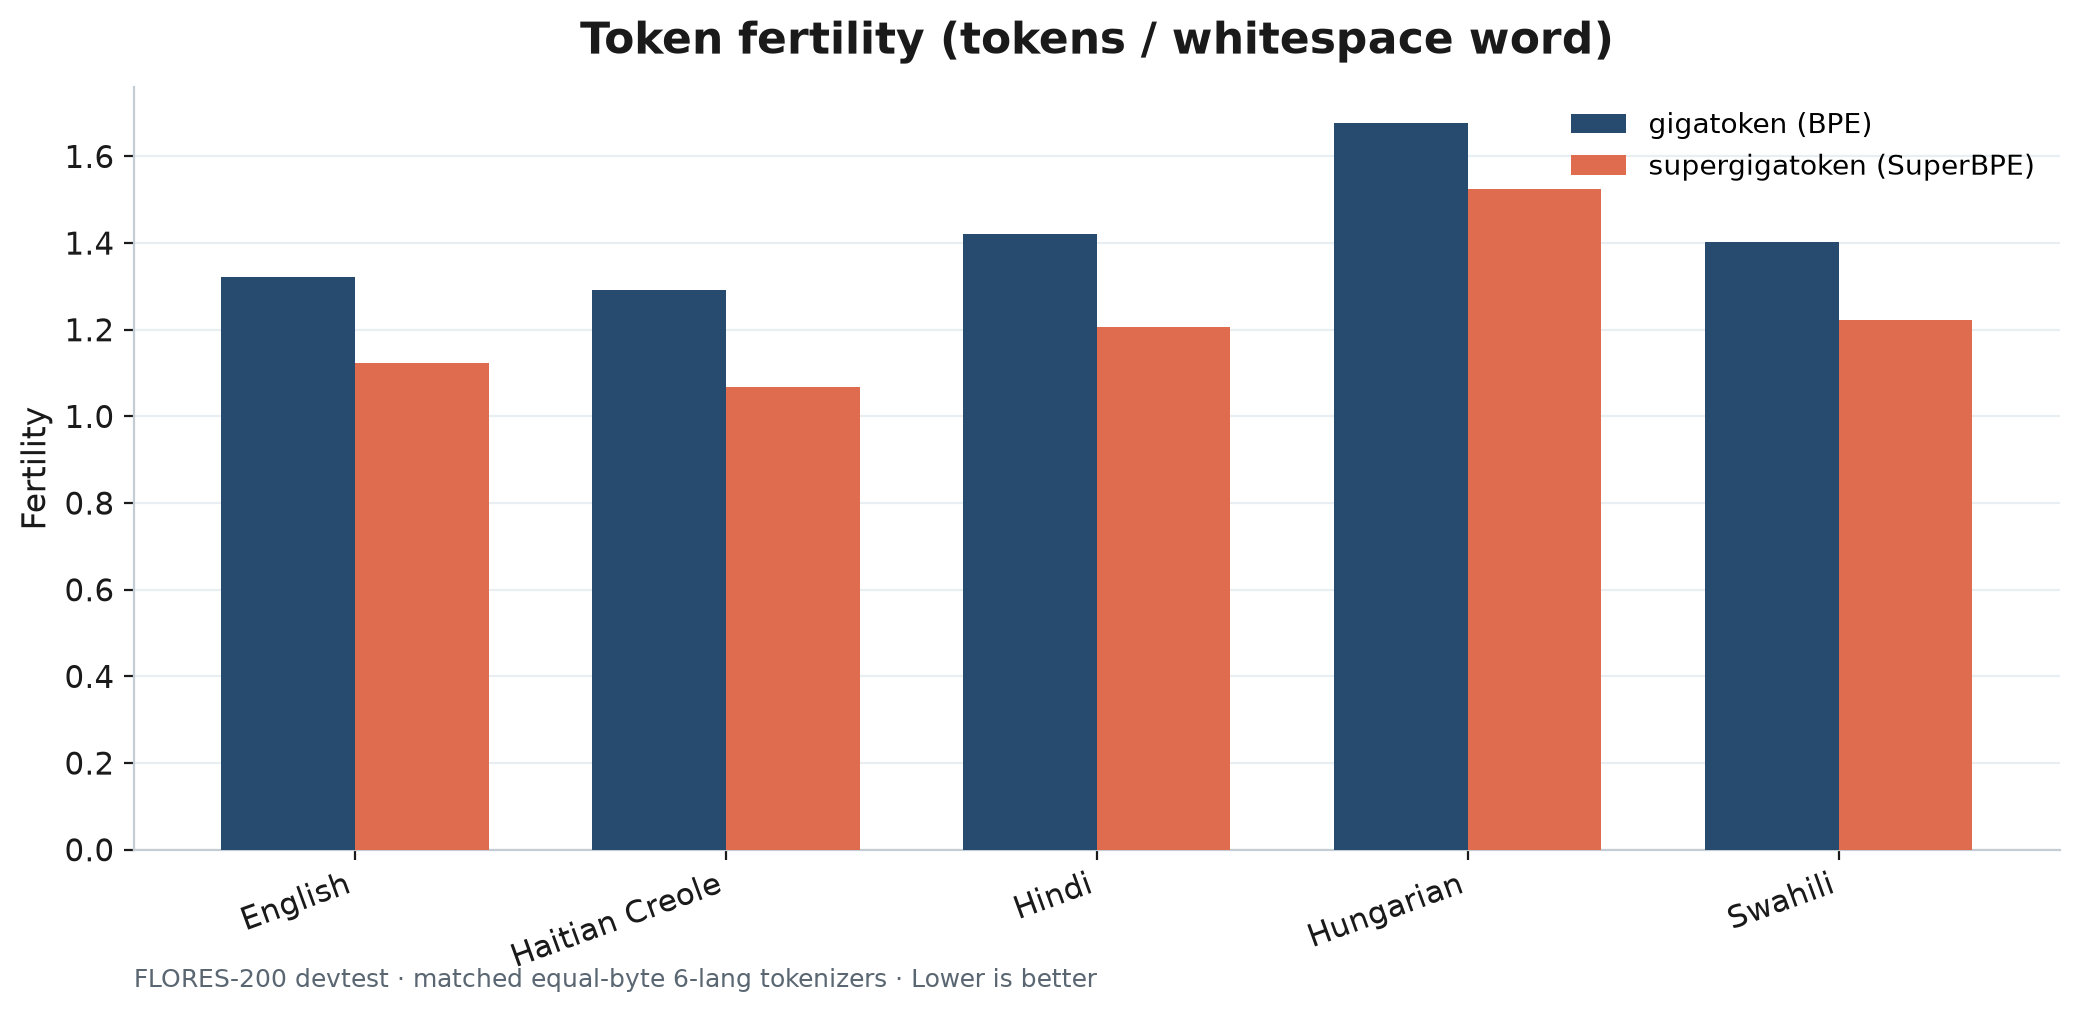
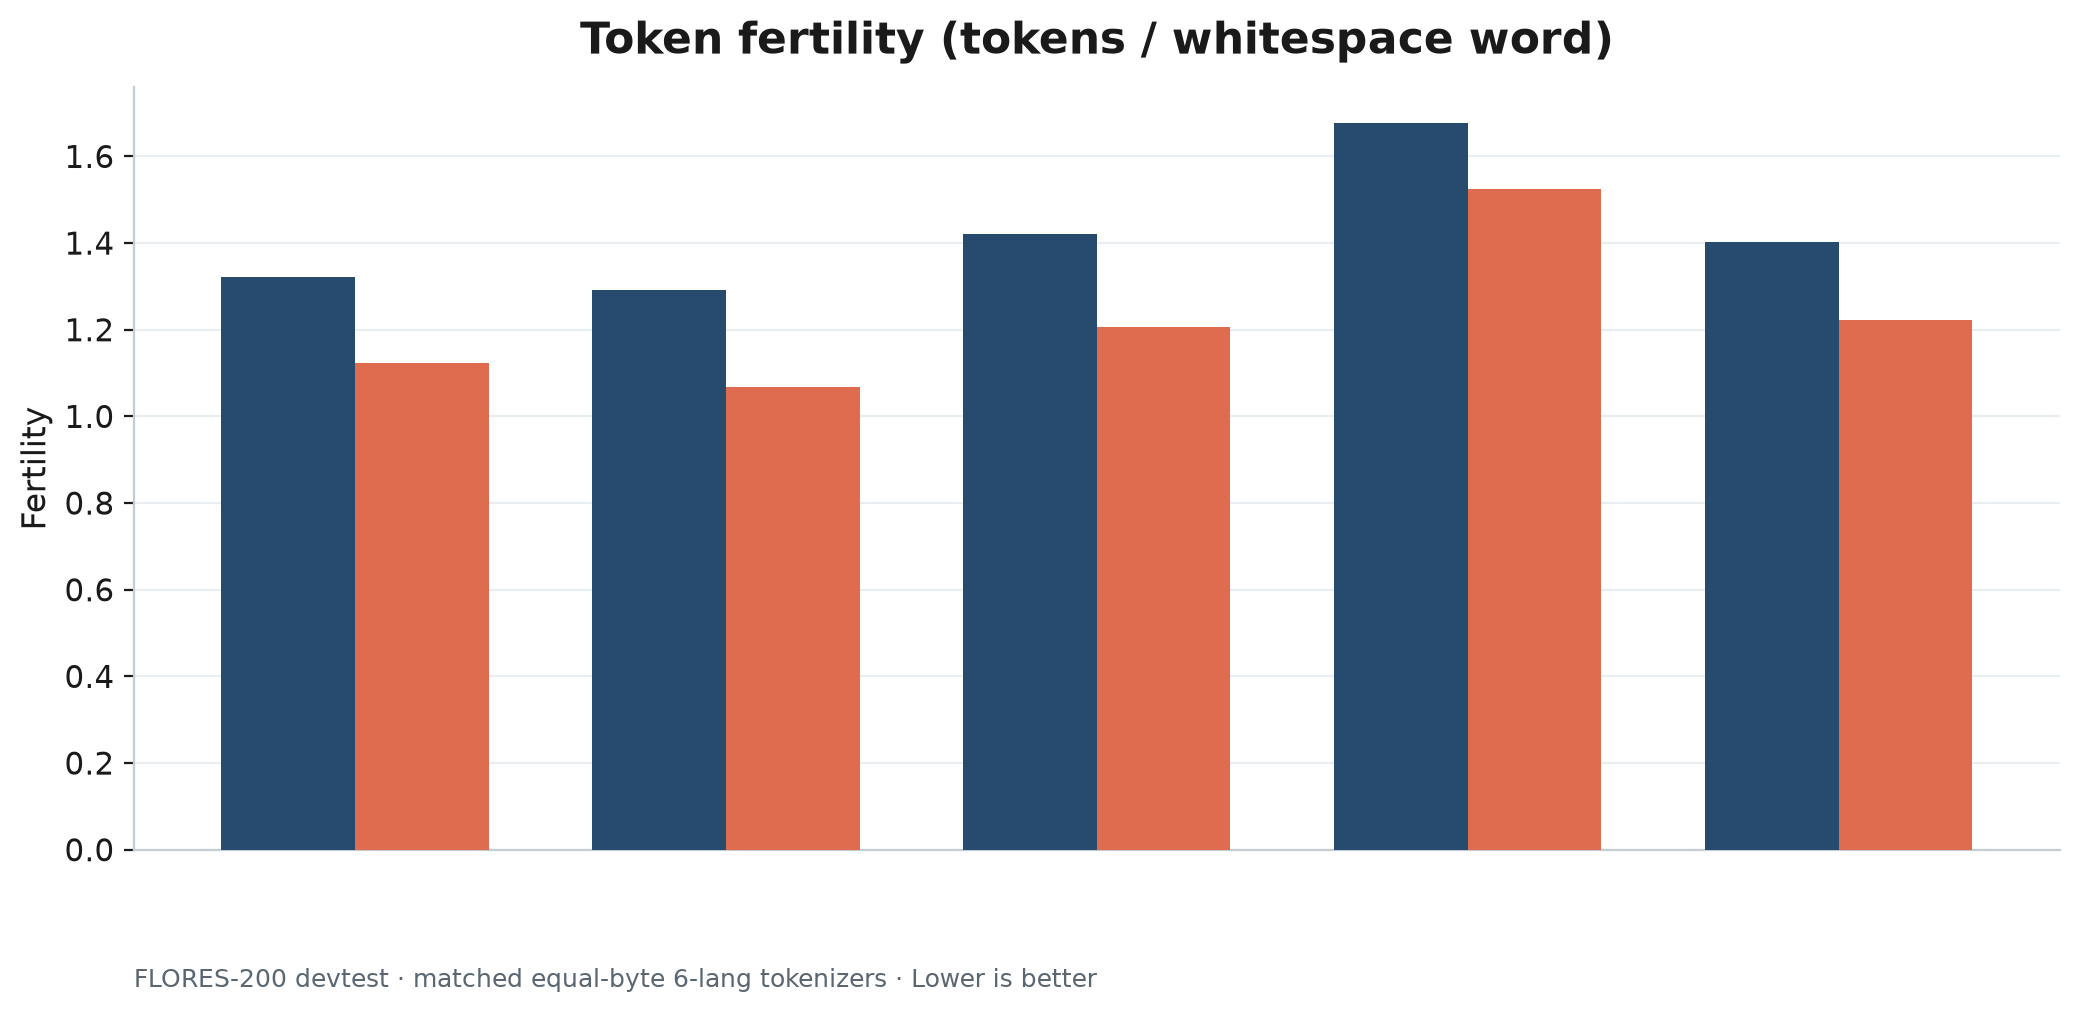
Hide language and tokenizer labels on fertility and STRR slide charts.

diff --git a/talks/slide_assets/make_named_tokenizer_graphs.py b/talks/slide_assets/make_named_tokenizer_graphs.py
@@ -56,7 +56,7 @@ LANG_LABEL = {
 TOK_ORDER = ["superbpe", "llama", "qwen", "glm", "o200k", "multi", "unigram", "wordpiece"]
 
 
-def heatmap(df, metric, title, out_path, cmap="lower", omit_cjk_null=False, vmax_label=""):
+def heatmap(df, metric, title, out_path, cmap="lower", omit_cjk_null=False, vmax_label="", *, hide_lang_tok_labels: bool = False):
     toks = [t for t in TOK_ORDER if t in set(df.tokenizer_id)]
     langs = [l for l in LANG_ORDER if l in set(df.language)]
     mat = np.full((len(langs), len(toks)), np.nan)
@@ -80,9 +80,18 @@ def heatmap(df, metric, title, out_path, cmap="lower", omit_cjk_null=False, vmax
 
     im = ax.imshow(mat, aspect="auto", cmap=cmap_name)
     ax.set_xticks(range(len(toks)))
-    ax.set_xticklabels([TOK_LABEL.get(t, t) for t in toks], fontsize=10)
     ax.set_yticks(range(len(langs)))
-    ax.set_yticklabels([LANG_LABEL.get(l, l) for l in langs], fontsize=11)
+    if hide_lang_tok_labels:
+        ax.set_xticklabels([])
+        ax.set_yticklabels([])
+        ax.tick_params(length=0)
+        ax.set_xlabel("")
+        ax.set_ylabel("")
+    else:
+        ax.set_xticklabels([TOK_LABEL.get(t, t) for t in toks], fontsize=10)
+        ax.set_yticklabels([LANG_LABEL.get(l, l) for l in langs], fontsize=11)
+        ax.set_xlabel("Tokenizer", fontsize=12, labelpad=8)
+        ax.set_ylabel("Language (FLORES-200)", fontsize=12)
     ax.set_title(title, fontsize=15, fontweight="bold", pad=14)
 
     # annotate cells
@@ -102,8 +111,6 @@ def heatmap(df, metric, title, out_path, cmap="lower", omit_cjk_null=False, vmax
 
     cbar = fig.colorbar(im, ax=ax, fraction=0.03, pad=0.02)
     cbar.set_label(vmax_label or metric, fontsize=10)
-    ax.set_xlabel("Tokenizer", fontsize=12, labelpad=8)
-    ax.set_ylabel("Language (FLORES-200)", fontsize=12)
     fig.text(
         0.5, 0.01,
         "Study A · FLORES-200 devtest · cell = metric value · redder = worse (except STRR: greener = better)",
@@ -115,7 +122,7 @@ def heatmap(df, metric, title, out_path, cmap="lower", omit_cjk_null=False, vmax
     print(f"Wrote {out_path}")
 
 
-def grouped_worst(df, metric, title, out_path, higher_better=False, langs=None):
+def grouped_worst(df, metric, title, out_path, higher_better=False, langs=None, *, hide_lang_tok_labels: bool = False):
     """Bar chart: for selected hard languages, every tokenizer named."""
     langs = langs or ["amh_Ethi", "ory_Orya", "arz_Arab", "hun_Latn", "swh_Latn"]
     toks = [t for t in TOK_ORDER if t in set(df.tokenizer_id)]
@@ -135,8 +142,13 @@ def grouped_worst(df, metric, title, out_path, higher_better=False, langs=None):
             vals.append(float(v) if v is not None and not (isinstance(v, float) and np.isnan(v)) else np.nan)
         bars = ax.barh(range(len(toks)), vals, color=colors, zorder=3)
         ax.set_yticks(range(len(toks)))
-        ax.set_yticklabels(labels, fontsize=8)
-        ax.set_title(LANG_LABEL[lang], fontsize=11, fontweight="bold")
+        if hide_lang_tok_labels:
+            ax.set_yticklabels([])
+            ax.tick_params(axis="y", length=0)
+            ax.set_title("")
+        else:
+            ax.set_yticklabels(labels, fontsize=8)
+            ax.set_title(LANG_LABEL[lang], fontsize=11, fontweight="bold")
         ax.xaxis.grid(True, color="#E8EEF2", zorder=0)
         ax.set_axisbelow(True)
         # highlight worst
@@ -170,6 +182,7 @@ def main():
         OUT / "fertility_by_tokenizer_heatmap.png",
         cmap="lower",
         vmax_label="Fertility",
+        hide_lang_tok_labels=True,
     )
     # STRR: drop Mandarin (null)
     df_strr = df[df.language != "zho_Hans"].copy()
@@ -179,6 +192,7 @@ def main():
         OUT / "strr_by_tokenizer_heatmap.png",
         cmap="higher",
         vmax_label="STRR",
+        hide_lang_tok_labels=True,
     )
 
     grouped_worst(
@@ -192,12 +206,14 @@ def main():
         "Who fragments? Fertility — named tokenizers",
         OUT / "fertility_by_tokenizer_bars.png",
         higher_better=False,
+        hide_lang_tok_labels=True,
     )
     grouped_worst(
         df_strr, "strr",
         "Who keeps whole words? STRR — named tokenizers (higher better)",
         OUT / "strr_by_tokenizer_bars.png",
         higher_better=True,
+        hide_lang_tok_labels=True,
     )
 
     # also copy paper heatmap with frontier names if present

diff --git a/talks/slide_assets/make_assets.py b/talks/slide_assets/make_assets.py
@@ -58,7 +58,17 @@ def _load_metrics():
     return pd.DataFrame(rows)
 
 
-def grouped_bars(df, metric, title, ylabel, out_path, omit_cjk=False, higher_better=False):
+def grouped_bars(
+    df,
+    metric,
+    title,
+    ylabel,
+    out_path,
+    omit_cjk=False,
+    higher_better=False,
+    *,
+    hide_lang_tok_labels: bool = False,
+):
     data = df.copy()
     if omit_cjk:
         data = data[data["language"] != "zho_Hans"]
@@ -70,13 +80,20 @@ def grouped_bars(df, metric, title, ylabel, out_path, omit_cjk=False, higher_bet
     x = np.arange(len(langs))
     w = 0.36
     fig, ax = plt.subplots(figsize=(10.5, 5.2), dpi=200)
-    ax.bar(x - w / 2, bpe, w, label="gigatoken (BPE)", color=BPE_C, zorder=3)
-    ax.bar(x + w / 2, sbp, w, label="supergigatoken (SuperBPE)", color=SBP_C, zorder=3)
-    ax.set_xticks(x)
-    ax.set_xticklabels(labels, rotation=20, ha="right")
+    if hide_lang_tok_labels:
+        ax.bar(x - w / 2, bpe, w, color=BPE_C, zorder=3)
+        ax.bar(x + w / 2, sbp, w, color=SBP_C, zorder=3)
+        ax.set_xticks(x)
+        ax.set_xticklabels([])
+        ax.tick_params(axis="x", length=0)
+    else:
+        ax.bar(x - w / 2, bpe, w, label="gigatoken (BPE)", color=BPE_C, zorder=3)
+        ax.bar(x + w / 2, sbp, w, label="supergigatoken (SuperBPE)", color=SBP_C, zorder=3)
+        ax.set_xticks(x)
+        ax.set_xticklabels(labels, rotation=20, ha="right")
+        ax.legend(frameon=False, loc="upper right")
     ax.set_ylabel(ylabel)
     ax.set_title(title, pad=12, color=INK, fontweight="bold")
-    ax.legend(frameon=False, loc="upper right")
     ax.yaxis.grid(True, color="#E8EEF2", zorder=0)
     ax.set_axisbelow(True)
     note = "Higher is better" if higher_better else "Lower is better"
@@ -264,6 +281,7 @@ def main():
         OUT / "fertility_bpe_vs_superbpe.png",
         omit_cjk=True,
         higher_better=False,
+        hide_lang_tok_labels=True,
     )
     # with Mandarin on a separate note chart (log-ish / separate)
     grouped_bars(
@@ -274,6 +292,7 @@ def main():
         OUT / "fertility_bpe_vs_superbpe_with_mandarin.png",
         omit_cjk=False,
         higher_better=False,
+        hide_lang_tok_labels=True,
     )
     grouped_bars(
         df,
@@ -283,6 +302,7 @@ def main():
         OUT / "strr_bpe_vs_superbpe.png",
         omit_cjk=True,  # Mandarin STRR is null
         higher_better=True,
+        hide_lang_tok_labels=True,
     )
     grouped_bars(
         df,

diff --git a/talks/slide_assets/make_fertility_premium_chart.py b/talks/slide_assets/make_fertility_premium_chart.py
@@ -46,19 +46,19 @@ def main() -> None:
     x = np.arange(len(FERT_LANGS))
     bpe_f = [by[("bpe", l)]["fertility"] for l in FERT_LANGS]
     sbp_f = [by[("superbpe", l)]["fertility"] for l in FERT_LANGS]
-    bars1 = axL.bar(x - width / 2, bpe_f, width, label="BPE", color=BPE, zorder=3, edgecolor="white")
-    bars2 = axL.bar(x + width / 2, sbp_f, width, label="SuperBPE", color=SBP, zorder=3, edgecolor="white")
+    bars1 = axL.bar(x - width / 2, bpe_f, width, color=BPE, zorder=3, edgecolor="white")
+    bars2 = axL.bar(x + width / 2, sbp_f, width, color=SBP, zorder=3, edgecolor="white")
     for bars in (bars1, bars2):
         for rect in bars:
             v = rect.get_height()
             axL.text(rect.get_x() + rect.get_width() / 2, v + 0.03, f"{v:.2f}",
                      ha="center", va="bottom", fontsize=9, fontweight="bold")
     axL.set_xticks(x)
-    axL.set_xticklabels([LANG_LABEL[l] for l in FERT_LANGS], fontsize=10)
+    axL.set_xticklabels([])
+    axL.tick_params(axis="x", length=0)
     axL.set_ylabel("Fertility  (tokens / whitespace word)")
     axL.set_title("Fertility  ·  lower is better", fontweight="bold")
     axL.set_ylim(0, max(bpe_f + sbp_f) * 1.22)
-    axL.legend(frameon=False, loc="upper right")
     axL.yaxis.grid(True, color="#E8EEF2", zorder=0)
     axL.set_axisbelow(True)
 
